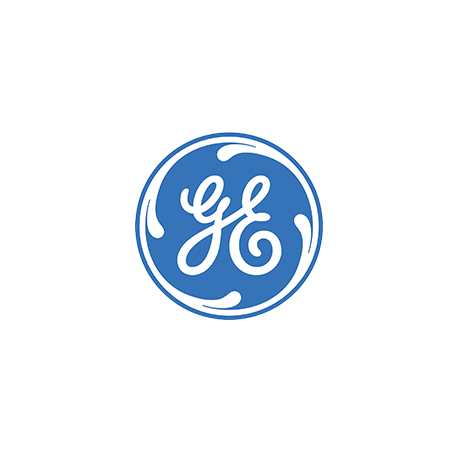
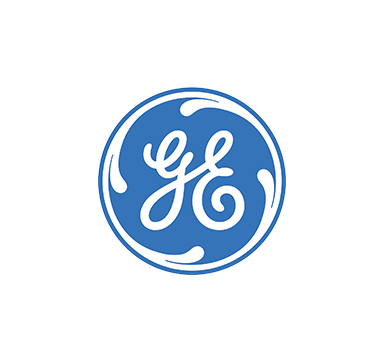
added header
refactoring code

Changed region(s): [[0.25, 0.2431, 0.75, 0.7597]]

diff --git a/Kendall_Gregory.html b/Kendall_Gregory.html
@@ -9,17 +9,27 @@
 	</head>
 	<body> 
 
-		<h1>Kendall Gregory</h1>
-		<a href="">
-			<img class="whiteOverlay left" id="Fade" src="FadeMag.png">
-		</a>
-		<a href="">
-			<img class="whiteOverlay right" id="GE" src="GE.png">
-		</a>
+		<img id="headerImage" src="Header.png">
 
-		<a href="">
-			<img class="whiteOverlay left" id="Patron" src="Patron.png">
-		</a>
+		<span class ="row_1">
+			<a href="#">
+				<!-- <span class = "caption"> Fade </span> -->
+				<img class="whiteOverlay left" id="Fade" src="FadeMag.png">
+			</a>
+		</span>
+		<span class ="row_1">
+			<a href="#">
+				<!-- <span class = "caption"> GE </span> -->
+				<img class="whiteOverlay right" id="GE" src="GE.png">
+			</a>
+		</span>
+		<span class ="row_2">
+			<a href="#">
+				<!-- <span class = "caption"> Patron </span> -->
+				<img class="whiteOverlay left" id="Patron" src="Patron.png">
+			</a>
+		</span>
+		
 		<a href="">
 			<img class="whiteOverlay right" id="ArtofHealthyHair" src="ArtofHealthyHair.png">
 		</a>
@@ -50,7 +60,7 @@
 		</a>
 
 
-		
+
 		<div id="MenuBar">
 			<a class="socials" href="www.twitter.com/">TWITTER</a>
 			<a class="socials" href="www.facebook.com">FACEBOOK</a>

diff --git a/index.css b/index.css
@@ -1,3 +1,6 @@
+body{
+	border: black 10px solid;
+}
 #MenuBar{
 	text-align: center;
 	display: inline-block;
@@ -29,14 +32,24 @@
 }
 
 /*positioning of all the images*/
+#headerImage{
+	text-align: center;
+	z-index: 7;
+	top: 50px;
+}
 
 #Fade{ 
+	position:relative;
+	top:-260px;
+	width: 937px;
    
 }
 
 #GE{
+	position: relative;
 	width: 349px;
-	margin-top: 250px;
+	margin-right: 127px;
+	margin-top: -600px;
 
 }
 
@@ -49,10 +62,14 @@
 }
 
 #Nexxus{
+	z-index: 2;
+	height: 640px;
+	margin-top: -225px;
 
 }
 
 #CoverGirl{
+	height: 450px;
 
 }
 
